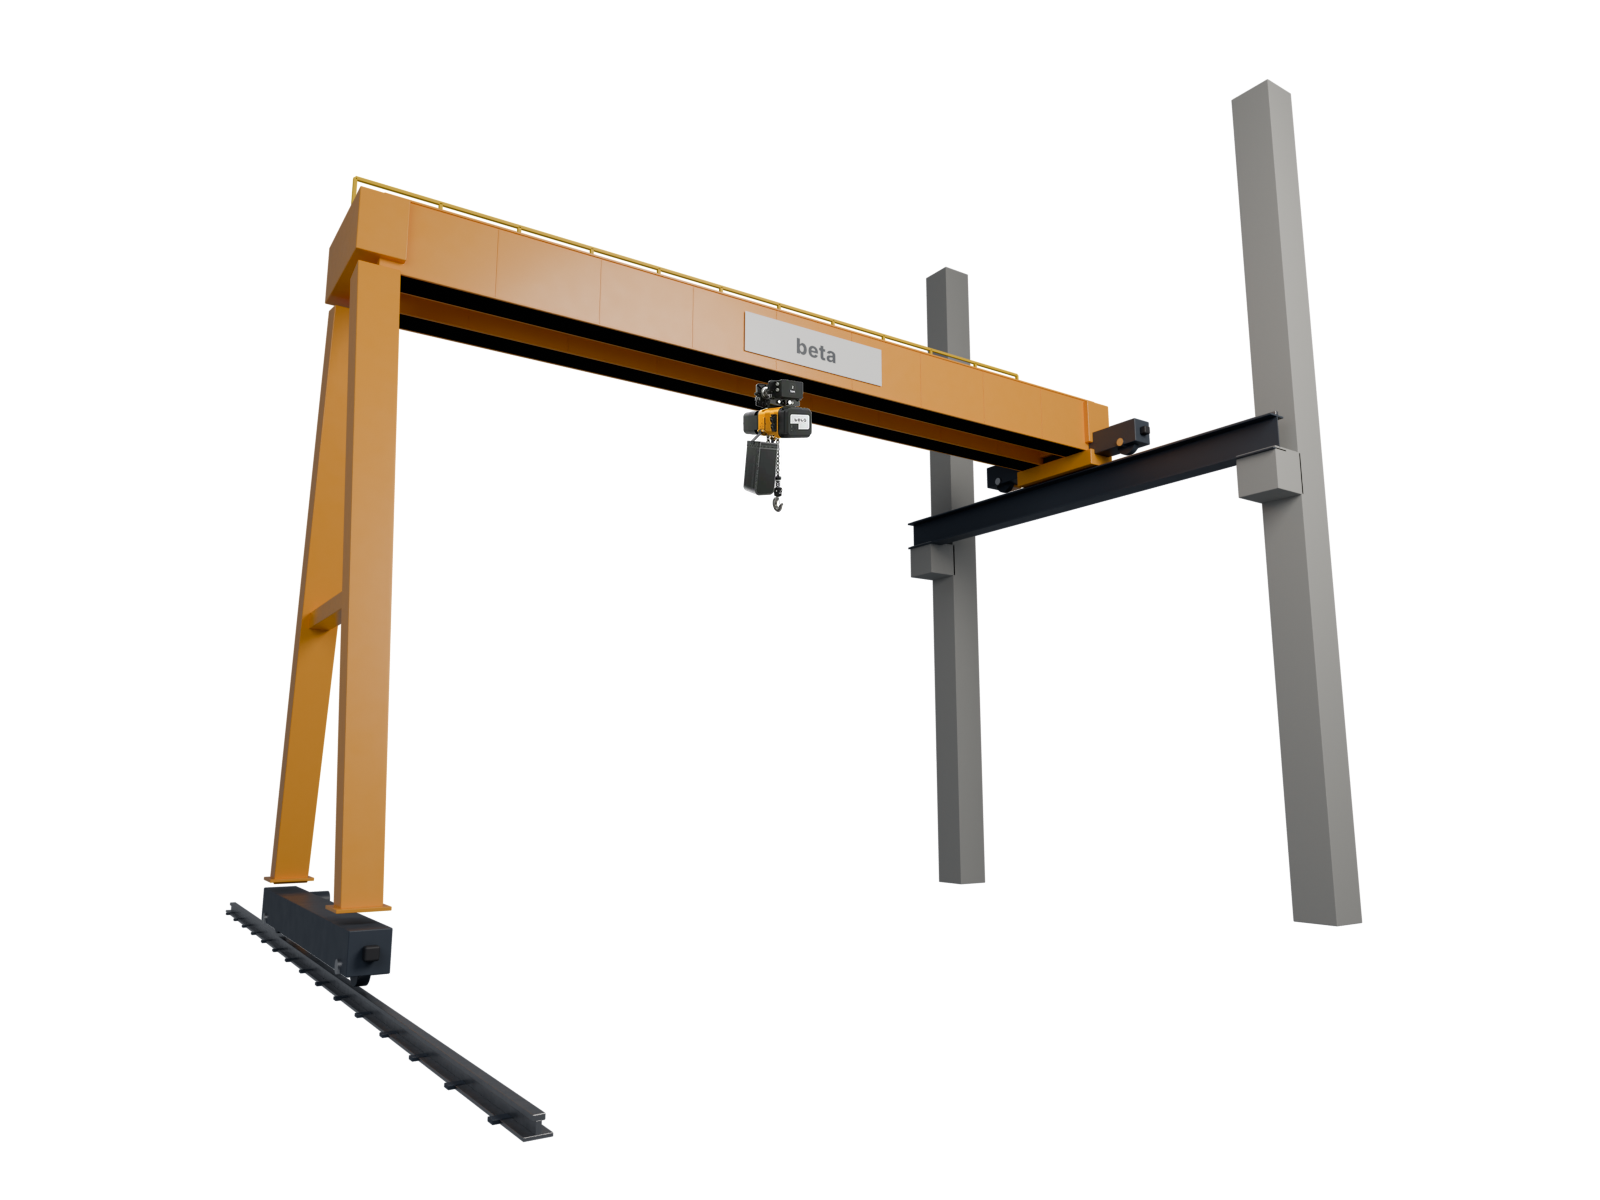
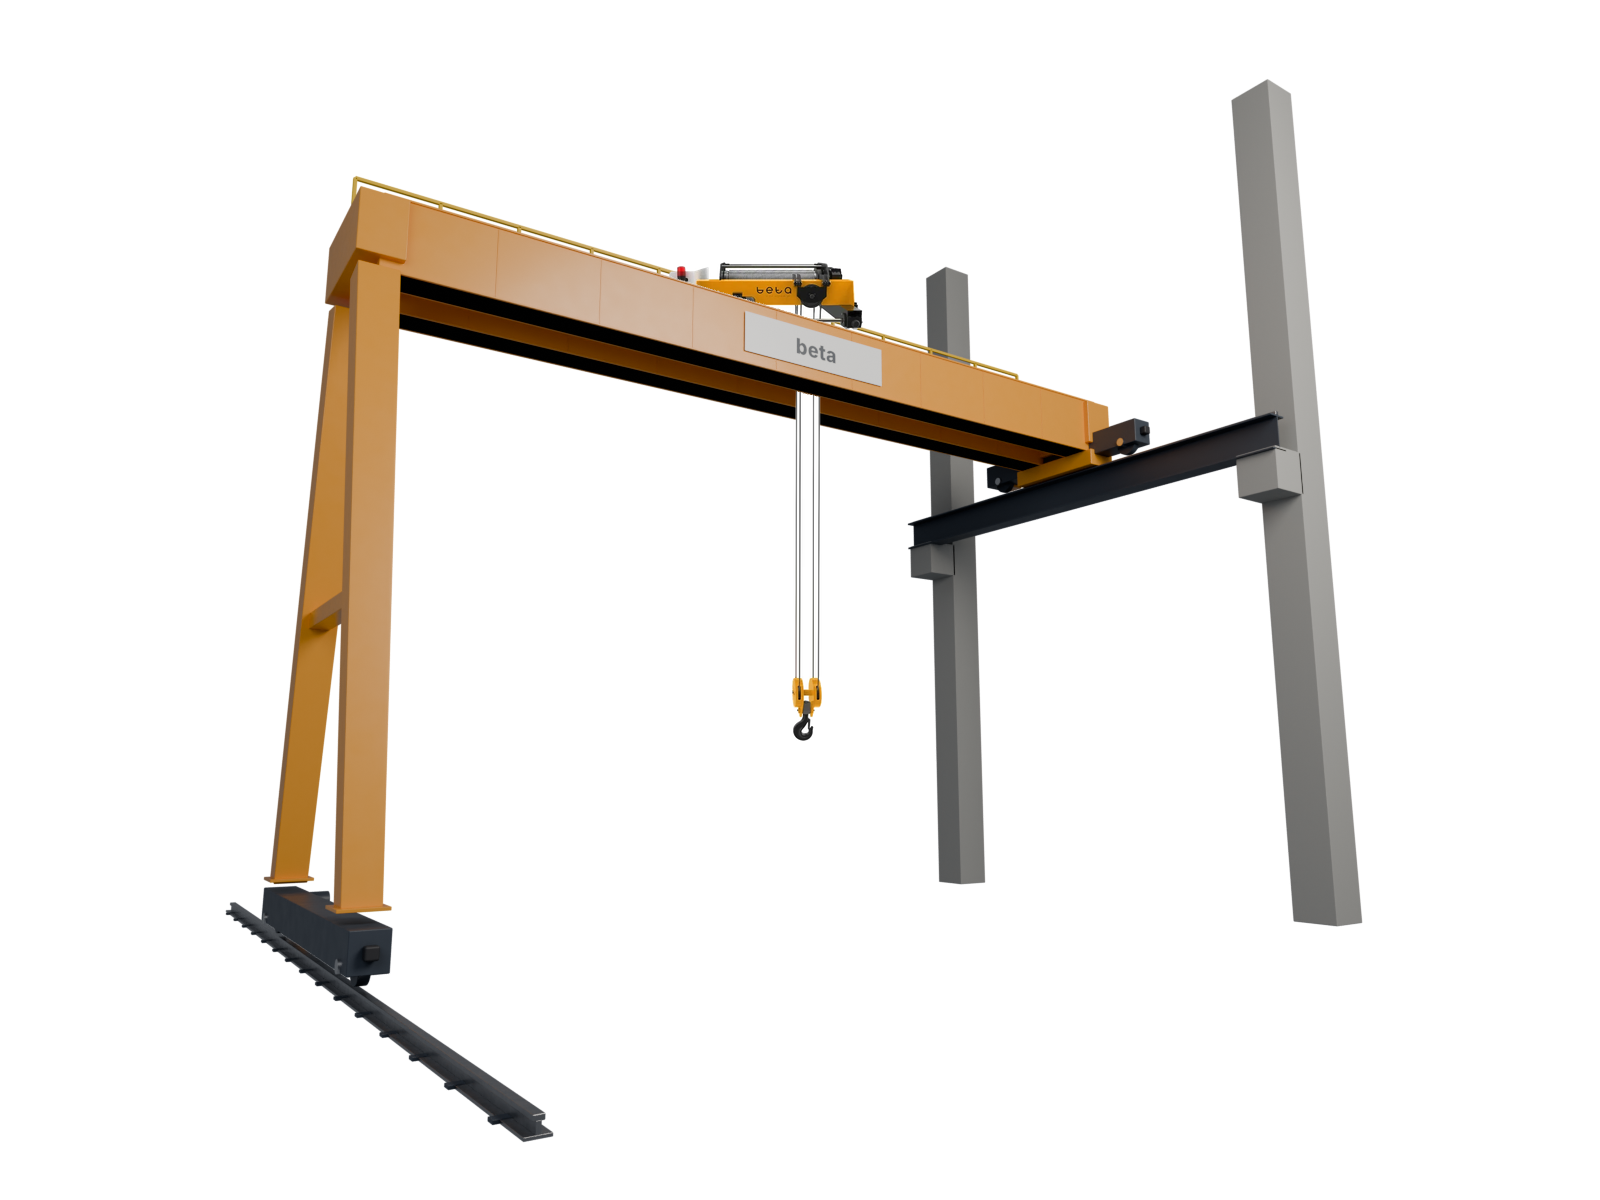
Portallerde Beta halatlı vinç arabası fotoğrafı (kirişlerin üstünde, ön kiriş arkasında)
Claude-Session: https://claude.ai/code/session_01BwJWWo6Yo4AefWjfCSnerb

Changed region(s): [[0.4062, 0.2158, 0.5625, 0.2775], [0.4688, 0.3083, 0.5312, 0.4317], [0.4688, 0.555, 0.5312, 0.6167]]

diff --git a/kaynak/render_vincler.py b/kaynak/render_vincler.py
@@ -574,9 +574,35 @@ def ortam(M, **kw):
     return None  # zemin yok: düz beyaz arka plan, gölge yok
 
 
-def foto_vinc(dosya, nesne, nokta, yukseklik, capa=0.5):
-    """Gerçek ürün fotoğrafını, kirişin alt başlığına oturacak şekilde render sonrası ekle."""
-    FOTOLAR.append((os.path.join(FOTO_KLASOR, dosya), nesne, Vector(nokta), yukseklik, capa))
+def foto_vinc(dosya, nesne, nokta, yukseklik, capa=0.5, dikey=0.0, arkasinda=(), halat=None):
+    """Gerçek ürün fotoğrafını render sonrası ekle.
+
+    nokta: fotoğrafın `dikey` oranındaki yüksekliğe denk gelen 3B nokta (0 = üst kenar),
+    arkasinda: fotoğrafın önünde kalacak nesnelerin ad önekleri (ör. ön kiriş),
+    halat: (ust_oran, alt_oran, kanca_z) - fotoğraftaki yalnız halat bandını dikey uzatıp
+           kancayı kanca_z yüksekliğine indirir.
+    """
+    FOTOLAR.append((os.path.join(FOTO_KLASOR, dosya), nesne, Vector(nokta), yukseklik, capa, dikey,
+                    tuple(arkasinda), halat))
+
+
+def maske_render(onekler, yol):
+    """Yalnızca verilen nesnelerin kapsama maskesini (alfa) render et."""
+    sc = bpy.context.scene
+    for o in sc.objects:
+        if o.type in {"MESH", "CURVE", "FONT"} and not o.name.startswith(onekler):
+            o.hide_render = True
+    beyaz = bpy.data.materials.new("maske")
+    nt = node_tree(beyaz)
+    nt.nodes["Principled BSDF"].inputs["Emission Color"].default_value = (1, 1, 1, 1)
+    nt.nodes["Principled BSDF"].inputs["Emission Strength"].default_value = 1.0
+    bpy.context.view_layer.material_override = beyaz
+    sc.cycles.samples = 4
+    sc.cycles.use_denoising = False
+    sc.cycles.use_adaptive_sampling = False
+    sc.render.film_transparent = True
+    sc.render.filepath = yol
+    bpy.ops.render.render(write_still=True)
 
 
 def fotolari_ekle(cikti):
@@ -591,7 +617,9 @@ def fotolari_ekle(cikti):
     if BEYAZ:
         zemin = Image.new("RGBA", img.size, (255, 255, 255, 255))
         img = Image.alpha_composite(zemin, img)
-    for dosya, nesne, nokta, yuk, capa in FOTOLAR:
+    taban = img.copy()
+    yerlesim = []
+    for dosya, nesne, nokta, yuk, capa, dikey, arkasinda, halat in FOTOLAR:
         ust = nesne.matrix_world @ nokta
         alt = nesne.matrix_world @ (nokta - Vector((0, 0, yuk)))
         pu = world_to_camera_view(sc, sc.camera, ust)
@@ -601,8 +629,31 @@ def fotolari_ekle(cikti):
         olcek = hpx / foto.height
         foto = foto.resize((max(1, round(foto.width * olcek)), max(1, round(foto.height * olcek))), Image.LANCZOS)
         x = round(pu.x * W - foto.width * capa)
-        y = round((1 - pu.y) * H)
+        y = round((1 - pu.y) * H - foto.height * dikey)
+        if halat:
+            r1, r2, kanca_z = halat
+            fw, fh = foto.size
+            a, b = round(r1 * fh), round(r2 * fh)
+            kanca_alt = ust.z - (1 - dikey) * yuk
+            ek = max(0.0, kanca_alt - kanca_z) * hpx / yuk
+            orta = foto.crop((0, a, fw, b)).resize((fw, round(b - a + ek)), Image.BICUBIC)
+            yeni = Image.new("RGBA", (fw, a + orta.height + fh - b), (0, 0, 0, 0))
+            yeni.paste(foto.crop((0, 0, fw, a)), (0, 0))
+            yeni.paste(orta, (0, a))
+            yeni.paste(foto.crop((0, b, fw, fh)), (0, a + orta.height))
+            foto = yeni
+        yerlesim.append((foto, x, y, arkasinda))
+    for foto, x, y, _ in yerlesim:
         img.alpha_composite(foto, (x, y))
+    onekler = tuple(sorted({o for *_, a in yerlesim for o in a}))
+    if onekler:
+        yol = os.path.splitext(cikti)[0] + "_maske.png"
+        maske_render(onekler, yol)
+        m = Image.open(yol).convert("RGBA").getchannel("A")
+        os.remove(yol)
+        on = taban.copy()
+        on.putalpha(m)
+        img.alpha_composite(on)
     img.convert("RGB").save(cikti)
 
 
@@ -789,9 +840,10 @@ def portal_govde(M, g, span, z_ust, h, cift_ayak=True, ray_ust=0.0, kanca_z=1.6,
         bas_araba("bas_sag", span, -2.2, 2.2, M, g, z=ray_ust)
         kutu("kumanda_kabin", (0.6, 0.5, 0.9), (span - 0.0, -1.0, 1.6), M["antrasit"], g, bevel=0.01)
     if foto:
-        # Beta ürün fotoğrafı: ön kirişin alt başlığında yürüyen vinç
-        dosya, yuk, capa = foto
-        foto_vinc(dosya, g, (span * 0.47, -yk, z_ust - h + 0.02), yuk, capa=capa)
+        # Beta halatlı vinç arabası fotoğrafı: kiriş raylarının üstünde, halatlar ön kirişin arkasında
+        dosya, yuk, capa, dikey = foto
+        foto_vinc(dosya, g, (span * 0.47, 0, z_ust + 0.05), yuk, capa=capa, dikey=dikey,
+                  arkasinda=("kiris_on",), halat=(0.45, 0.60, 2.1))
     else:
         halatli_araba("araba", span * 0.47, z_ust + 0.05, yk, M, g, kanca_z=kanca_z)
 
@@ -813,7 +865,7 @@ def sahne_portal(M):
     ray("ray_sag", span, -RAY, RAY, M)
     g = bos("portal", (0, 0, 0.12))
     portal_govde(M, g, span, 6.6, 0.85, cift_ayak=True, kanca_z=1.4,
-                 foto=("kompakt_vinc.png", 1.6, 0.66) if BEYAZ else None)
+                 foto=("halatli_vinc_araba.png", 2.3, 0.5, 0.41) if BEYAZ else None)
     # yük: çelik sac paketi
     if not BEYAZ:
         yuk_kasa(M, (span * 0.47 - 0.15, -0.0, 0.0))
@@ -843,7 +895,7 @@ def sahne_yari_portal(M):
     g = bos("portal", (0, 0, 0.12))
     zust = 7.75
     portal_govde(M, g, span, zust, 0.85, cift_ayak=False, kanca_z=1.4,
-                 foto=("zincirli_vinc_2ton.png", 1.8, 0.62) if BEYAZ else None)
+                 foto=("halatli_vinc_araba.png", 2.3, 0.5, 0.41) if BEYAZ else None)
     # yol kirişi üzerindeki baş arabası
     bas_araba("bas_sag", span, -1.6, 1.6, M, g, z=6.68)
     kutu("sag_bas_baglanti", (0.5, 1.6, 0.25), (span, 0, zust - 0.85 - 0.12 + 0.0), M["turuncu"], g, bevel=0.01)

diff --git a/README.md b/README.md
@@ -8,8 +8,8 @@ beyaz zemini temizlenmiş) bom / kiriş alt başlığına perspektife uygun konu
 
 - Duvar tipi pergel → 2 ton zincirli vinç (`zincirli_vinc_2ton.png`)
 - Kolon tipi pergel → kompakt vinç (`kompakt_vinc.png`)
-- Yarı portal → 2 ton zincirli vinç
-- Portal → kompakt vinç
+- Yarı portal ve portal → halatlı vinç arabası (`halatli_vinc_araba.png`): kiriş raylarının
+  üstünde, ön kirişin arkasında; halat bandı uzatılarak kanca ~2 m yüksekliğe indirildi
 
 | Ürün | Orijinal | Gerçekçi |
 |---|---|---|
